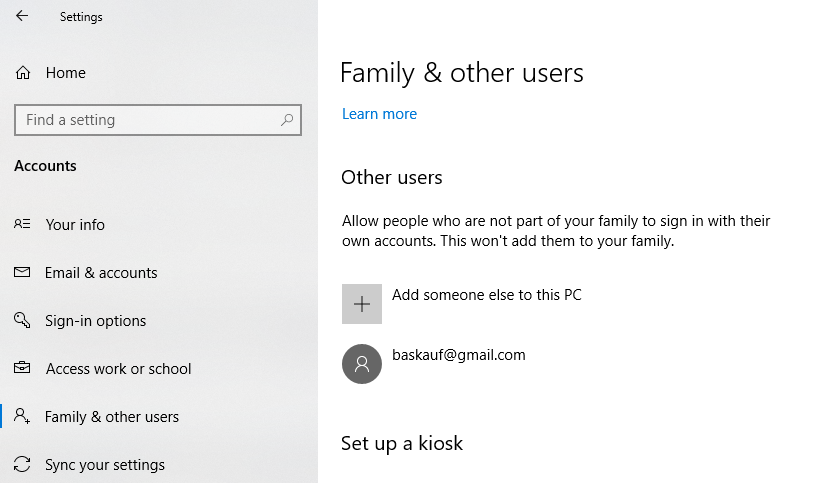
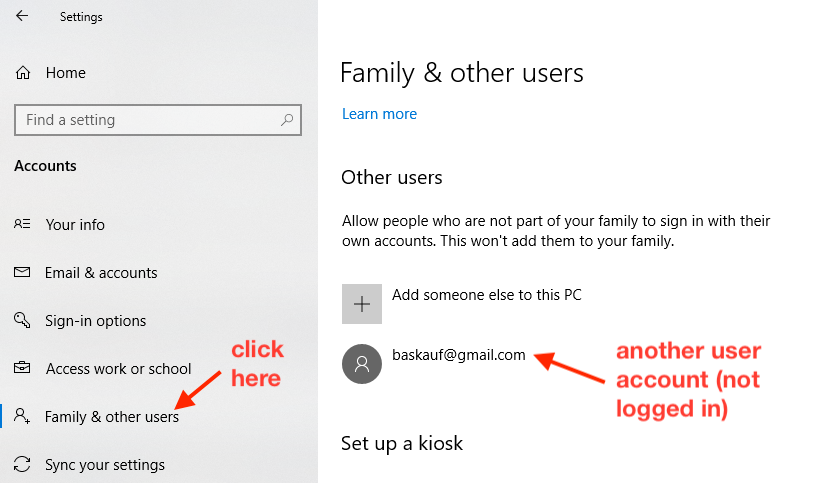
finished first pass at Windows file tutorial

Changed region(s): [[0.6198, 0.7143, 0.9297, 0.8696], [0.1859, 0.7764, 0.3409, 0.8385], [0.2789, 0.6832, 0.3409, 0.7453]]

diff --git a/computer/files-windows.md b/computer/files-windows.md
@@ -16,9 +16,11 @@ As long as everything works as it should, this simplified interface is great and
 
 In this workshop, we assume that you are NOT an idiot and that you should be able to see and understand what's actually going on with your computer without messing it up.  If the situation is not too complicated, you should be empowered to take action yourself.  If the problem is very technical, you should know enough to be able to seek out the help that you need. 
 
+**Tech tip: For many of the most common tasks that are done through menu choices, there is a shortcut key sequence that allows you to avoid having to go up to the menu and make a selection.  In many cases, you hold down on the `Ctrl` key and press some other key.  For example, the shortcut for print is usually to hold `Ctrl` then press `p`.  The shortcuts are often shown to the right of the menu item that they are equivalent to.**
+
 # The illusion of the desktop
 
-![](../images-1-pc/pc-desktop.png)
+![Windows desktop](../images-1-pc/pc-desktop.png)
 
 When I look at the screen of my computer, I see what appears to be a flat surface.  There are some images that I've "saved to the desktop" and it appears that those little pictures are actually sitting on the surface of my desktop.  However, this is an illusion that my computer creates.
 
@@ -34,27 +36,32 @@ In reality, the two image files are somewhere on the *hard drive* of my computer
 
 Long ago, personal computers could have only one user.  Now personal computers are set up to allow different users to log on and access their own files using personalized settings.  You may do some sort of login when you boot your computer, or your computer may be set up to log you in automatically.  
 
-![](../images-1-pc/pc-settings.png)
+<img src="../images-1-pc/pc-settings.png" style="border:1px solid black">
 
-To see what users are enabled on your computer, drop down the apple menu at the upper left of your screen and select System Preferences.  If necessary, click on the button at the top that contains rows of dots so that you can see the preferences options.  Double click on Users & Groups.
+To see what users are enabled on your computer, click on the Start icon (looks like a little window) at the lower left of your screen and click on the little gear. Click on Accounts.
 
-![](../images-1-pc/my-account.png)
+![Logged on user account](../images-1-pc/my-account.png)
 
-There are several important things that you can see from this window.  You can see who is currently logged on, and whether the current user is an *administrator user* or not.  If you are using your own computer, you generally should be logged on as an administrator user, otherwise you may be prevented from taking important actions like installing new software.  If you are using a work computer, you may not be an administator user.  In that case, there may be some changes that you won't be allowed to make on your computer.
+You will see a summary of the user that is logged in.  One important thing that you can see from this window is whether the current user is an *administrator user* or not.  If you are using your own computer, you generally should be logged on as an administrator user, otherwise you may be prevented from taking important actions like installing new software.  If you are using a work computer, you may not be an administator user.  In that case, there may be some changes that you won't be allowed to make on your computer.
 
-![](../images-1-pc/other-account.png)
+![List of other user accounts](../images-1-pc/other-account.png)
 
-You can also see that there are several other users listed that are not currently logged in.
+Click on the item labeled `Family & other users`, then scroll down the screen to `Other users`.  You can see there if there are other users listed that are not currently logged in.
 
 <img src="../images-1-pc/pc-other-desktop-tree.png" style="border:1px solid black">
 
-Here is another view of the directory tree.  In the previous view, the home folder of the logged in user (baskausj) was selected.  I could tell that it was for the logged in user because the user folder icon was a little house.  In this view, the home folder of a non-logged in user (Guest) was selected.  Notice that the Guest user also has a folder called "Desktop".  Most of the Guest user folders have little red "do not" symbols on them.  Since I'm not logged in as the Guest user, I'm not allowed to access them.
+Here is another view of the directory tree.  In the previous view, the `Desktop` folder was in the home folder of the logged in user (steve-bootcamp).  In this view, the `Desktop` folder was in the home folder of a non-logged in user (defaultuser1).  Both users have folders called "Desktop", but those folders are not the same.  As you can see, the defaultuser1 desktop folder is actually empty (vs. the steve-bootcamp user's desktop, which had the two image files).
 
 Every user on the computer has its own Documents, Downloads, Music, etc. folders.  It can be confusing if you unknowingly log out from your normal user account and log on to a different one.  The graphical desktop and the contents of all of these familiar folders will be different because they aren't actually the same folders as your user folders (even though they have the same names).  
 
 If you use your computer sometime and the desktop looks different, or folders and files appear to be missing, do not panic.  First, check whether you have accidentally logged in as a different user (then panic as necessary).
 
 # Programs and files
+
+**Tech tip: The usual way to work with files in Windows is with the *File Explorer*.  To launch File Explorer, click on the little file folder in the lower left of the screen.  It's usually the first icon after the search box.**
+
+![Opening File Explorer](../images-1-pc/file-explorer.png)
+
 
 ## What is a file?
 
@@ -65,6 +72,17 @@ A file has several fundamental properties.  One is its size.  File sizes are mea
 Another property of a file is its last-modified date.  This is the last time that the file was changed.  The last-modified date can be really useful if you are searching for a file but don't remember its name, or for sorting files by how recently you worked on them.
 
 File names and types are also important and will be discussed in detail below.
+
+## File Properties
+
+There are two ways in Windows that you can get information about a particular file.  
+
+1. Right click on the file, then select `Properties` from the menu that opens.
+2. Click on the file, then select `Properties` from the Home ribbon at the top of the File Explorer window.
+
+<img src="../images-1-pc/file-properties.png" style="border:1px solid black">
+
+The various tabs of the File Explorer window show all kinds of information about the file, including its kind, size, and modification date.  
 
 ## File names
 
@@ -108,30 +126,23 @@ Here are some examples.
 
 In the olden days, a computer could only run one program at a time.  However, now computers routinely run many programs at once.  Many of those programs start running when the computer is booted up and you don't even know it.  The operating system itself is a big program that runs all the time when the computer is turned on.  
 
-![Mac dock](../images-1-pc/task-bar.png)
+![Windows task bar](../images-1-pc/task-bar.png)
 
-Applications that have been started up by the user are usually shown in the *dock* at the bottom of the Mac desktop.  Icons of applications that are "pinned" to the dock are there all the time, regardless of whether they are running or not.  Applications that are running, but not pinned, will show up in the dock with dots under them while they are running.  They may disappear when you quit them.
+Applications that have been started up by the user are usually shown in the *task bar* at the bottom of the Windows desktop.  Icons of applications that are "pinned" to the task bar are there all the time, regardless of whether they are running or not.  Applications that are running have blue bars under them.  Applications that aren't pinned will show up in the task bar while they are running, but they will disappear when you exit them.
 
-You should be aware that on a Mac just closing the final window of an application does not quit the application.  It is still running, and you'll see the dot under its icon in the dock.  
+In Windows, to exit an application, all you need to do to exit an application is to click on the X in the last open window associated with that application.  Alternatively, you can right-click on its icon in the task bar, then select `Close window`.   
 
+![Windows system tray](../images-1-pc/system-tray.png)
 
+Some of the applications that started up automatically when the computer booted have icons in the *system tray* at the lower right of the Mac desktop. In this example, Dropbox and OneDrive (applications that started when the computer booted) are showing up there.  There are several other applications that were launched when the system booted that show up when you click on the up arrow on the left side of the system tray.  In most cases, clicking on these icons will bring up some kind of menu that tells you the status of the application, gives notifications, or allows you to change settings.  For example, clicking on the Dropbox icon will tell you whether file synching is up to date.
 
-To actually quit the application, click on its icon in the dock, then go to the menu item named after the application.  Drop down the menu and select quit.  
+The most complete way to know about every program that is running on in Windows is to launch the Task Manager.  To start up the Task Manager, hold down on the `Ctrl` and `Alt` keys at the same time, then press the `Delete` key.  This key combination (sometimes called the Windows "three finger salute") is the method of last resort for getting your computer's attention when it's locked up.  From the menu that pops up, select `Task Manager`.  
 
-**Tech tip: For many of the most common tasks that are done through menu choices, there is a shortcut key sequence that allows you to avoid having to go up to the menu and make a selection.  In many cases, you hold down on the `command` key and press some other key.  For example, the shortcut for quit is hold `command` then press `q`.  Some other shortcuts are nearly impossible to remember and require pressing three keys at once.  The shortcuts are often shown to the right of the menu item that they are equivalent to.**
+![Windows task manager](../images-1-pc/task-manager.png)
 
-You can also quit an application by right-clicking on its icon in the dock, then selecting `Quit`.
+Under normal circumstances, you are not likely to need to look at the Task Manager, but sometimes there are stubborn problems caused when a program won't finish quitting properly, or gets out of control and won't quit.  In the Task Manager, you can click on the name of the running App, then click on the `End task` button at the lower right of the window.  
 
-
-Some of the applications that started up automatically when the computer booted have icons in the *menu bar* at the upper right of the Mac desktop. In this example, Dropbox, Box, Pulse Secure VPN, Docker, and other applications that started when the computer booted are showing up there.  In most cases, clicking on these icons will bring up some kind of menu that tells you the status of the application, gives notifications, or allows you to change settings.  For example, clicking on the Dropbox icon will tell you whether file synching is up to date.
-
-![Mac activity monitor](../images-1-pc/task-manager.png)
-
-The most complete way to know about every program that is running on a Mac is to launch the Activity Monitor.  To start up Activity Monitor, click on the spotlight search icon (magnifying glass) in the upper right of your computer, then start typing "activity".  When `Activity Monitor.app` appears as a list item, double-click on it.  
-
-You are not likely to need to look at the Activity Monitor, but sometimes there are stubborn problems caused when a program won't finish quitting properly, or gets out of control and won't quit.  In the activity monitor, you can click on the name of the running "process", then click on the X button at the upper left of the window.  
-
-**Note:** it is not advisable to use this as a routine way to quit programs, or to quit processes whose purpose you don't understand.  However, the Activity Monitor is a way to discover if an application is a "hog" that is using up a lot of your system resources and slowing down other applications.  This may be relevant if you use a lot of applications, then close their windows without actually quitting them as described above.
+**Note:** it is not advisable to use this as a routine way to quit programs, or to quit background processes whose purpose you don't understand.  However, the Task Manager is a way to discover if an application is a "hog" that is using up a lot of your system resources and slowing down other applications.  In other cases, you inadvertently run multiple copies of the same application, and one or more copies of the applications that are "stuck" may be preventing the applications that you see on your screen from running properly.  With Task Manager, you can shut down the multiple instances of the application, then restart it in the normal way.
 
 # File associations and extensions
 
@@ -143,44 +154,29 @@ A *file extension* is a series of characters that follow the main part of a file
 
 ## How does my computer know what a file is "for"?
 
-In the past, Macs had a special way that they kept track of the type of a file.  The file type was stored as metadata within the file itself.  In that system, any Mac could know the type of a file by looking at that metadata, although other brands of computers would probably not know what to do with them.  However, Macs now follow the convention used by most of the rest of the computing world: use a file extension to keep track of the type of a file.
+Windows computers track the type of a file by following the convention used by most of the computing world: use a file extension to know what kind of file it is.
 
-Despite this change, Macs continue to hide the file extensions from their users.  Perhaps this is to reassure old Classic Mac users, or maybe Apple thinks that file extensions will be too confusing to new users.  However, in the spirit of "you are not an idiot and don't need to be treated like one", we are going to learn how to turn off the hiding of file extensions.
-
-## Get Info
-
-There are three ways in Finder that you can get information about a particular file, including its kind.  
-
-
-1. Right click on the file, then select `Get Info` from the menu that opens.
-2. Click on the file, then select `Get Info` from the Finder File menu at the upper left of the screen.
-3. Click on the file, hold down on the `command` key, then press the `i` key.  
-
-<img src="../images-1-pc/file-properties.png" style="border:1px solid black">
-
-The Get Info window shows all kinds of information about the file, including its kind, size, and often a preview of how the file would be rendered.  
+Despite this, by default Windows computers hide the file extensions from their users.  Perhaps Microsoft thinks that file extensions will be too confusing to new users.  In the spirit of "you are not an idiot and don't need to be treated like one", we are going to learn how to turn off the hiding of file extensions.
 
 ## Unhiding file extensions
 
 <img src="../images-1-pc/open-folder-options.png" style="border:1px solid black">
 
-The Get Info window has a checkbox to control whether the file extension is displayed for that particular file.  Unchecking that box makes the extension show up in the file name in Finder:
+The easiest way to get to the File Explorer Options is to start typing "folder" in the search box at the lower left of the screen.  (Why "folder" and not "file explorer"? Dunno.)  When File Explorer Options appears, click on it.  When the window opens up, click on the View tab. 
 
-Here's what the icon looks like when the extension is being hidden:
+In the Advanced settings section of the tab, there are a number of checkboxes for controlling how files and folders are displayed. 
+
+Notice how icon labels look when the extension is being hidden:
 
 <img src="../images-1-pc/hide-extensions.png" style="border:1px solid black">
 
-Here's what the icon looks like when the extension is displayed:
+Click to uncheck the `Hide extensions for known file types` checkbox, then click `Apply`. Notice that the labels under icons now show the file extension: 
 
 <img src="../images-1-pc/show-file-extensions.png" style="border:1px solid black">
 
-Obviously, this is not a solution if you want to display file extensions for every file on your computer.  To accomplish that, you need to change a setting in your Preferences.  
+It is really pretty difficult to do anything very complex on your computer without being able to see file extensions, so you should leave them as visible.  
 
-Click on an open Finder window, or on the Finder icon in the Dock to make Finder the active application.  Then drop down the Finder menu in the upper left and select `Preferences ...`.  
-
-
-
-Check the box next to `Show all filename extensions`, then close the window.  Now when you view files in finder, it should be clear what type of file they are based on their file extensions.
+**Tech tip: It is also an insult to your intelligence that your computer hides files from you.  So while you have this dialog open, you should click the `Show hidden files, folders, and drives` radio button, then hit Apply.  Hidden folders often contain files that you shouldn't mess with, but there is definitely no harm in you being able to see them.  They show up as gray in File Explorer.**
 
 Here are some common file extensions and the type of file they represent
 
@@ -212,13 +208,27 @@ However, sometimes a newly-installed application may "hijack" a file association
 
 ## Changing file associations
 
-In Macs, it isn't particularly easy to find the file type association list.  However, it is relatively easy to find out what application is associated with one particular file type.  In Finder, locate a file of the type whose association you'd like to change.  In the Get Info window, there is a section labeled `Open with:`.  In that section, there is a dropdown list that shows both the default application that will generally be used to open that kind of file, and all of the applications that your computer thinks might be reasonable alternatives. If you change the selection in this dropdown, it will change the application that will be used to open **that particular file**.  However, if you then click the `Change All...` button below the list, that will change the default application used to open **all** files of that type (i.e. having that file extension).
+In Windows, it's relatively easy to look at the file type association list.  To get to the list, click the Start button in the lower left, then click on the settings gear.  
+
+<img src="../images-1-pc/settings-apps.png" style="border:1px solid black">
+
+Click on the `Apps` item.
 
 <img src="../images-1-pc/default-apps.png" style="border:1px solid black">
 
+Click on the `Default apps` option.
+
 <img src="../images-1-pc/default-choices.png" style="border:1px solid black">
 
+Scroll down the screen until you see a list of ways to choose default apps.  
+
+<img src="../images-1-pc/pick-default-method.png" style="border:1px solid black">
+
+Click on the `Choose default apps by file type` option.  It may take a few moments for the window to be populated with all of the file types.
+
 <img src="../images-1-pc/default-app-by-extension.png" style="border:1px solid black">
+
+Eventually, you will see a list of file extensions, with a description of the file type below them.  At the right of the screen, you can select what application should be associated with that file type.  If there is already an application, you can click on the option to change it.  If it says "Choose a default", you may have trouble finding an application that will work for that kind of file.
 
 Once you have changed the file type association, you have changed what happens when you double-click on a file of that kind.  For example, if you associate `.png` images with Preview, the file will be opened with the typical viewing options, such as setting up a slideshow.  However, if you associate `.png` images with Adobe Photoshop, double-clicking on `.png` images will launch Photoshop (if it isn't already running), then open the file in the Photoshop application.
 

diff --git a/computer/files-mac.md b/computer/files-mac.md
@@ -54,6 +54,11 @@ If you use your computer sometime and the desktop looks different, or folders an
 
 # Programs and files
 
+**Tech tip: The usual way to work with files in Windows is with *Finder*.  Finder is always running on a Mac -- there is no way to "turn it off".  To view files, click on the Finder icon at the lower left of your screen.**
+
+![Finder](../images-1-mac/finder.png)
+
+
 ## What is a file?
 
 The fundamental unit of organization of information on a computer is a *file*.  A file is a set of *bytes* that are grouped together for some purpose and given a common name.  We will not worry about the details of what a byte is -- we can just imagine that it is some unit of information.  By itself, a byte doesn't have any meaning.  It is given meaning when we know the type of the file that it's included in.  For example, in a text file, a byte might represent a character like a number or letter.  In an MP3 file, a byte is a digital representation of some part of a sound.  In a JPEG image, a byte represents some component of the colored dots that are used to make an image. 
@@ -63,6 +68,19 @@ A file has several fundamental properties.  One is its size.  File sizes are mea
 Another property of a file is its last-modified date.  This is the last time that the file was changed.  The last-modified date can be really useful if you are searching for a file but don't remember its name, or for sorting files by how recently you worked on them.
 
 File names and types are also important and will be discussed in detail below.
+
+## Get Info
+
+There are three ways in Finder that you can get information about a particular file.  
+
+
+1. Right click on the file, then select `Get Info` from the menu that opens.
+2. Click on the file, then select `Get Info` from the Finder File menu at the upper left of the screen.
+3. Click on the file, hold down on the `command` key, then press the `i` key.  
+
+<img src="../images-1-mac/get-info-unlabeled.png" style="border:1px solid black">
+
+The Get Info window shows all kinds of information about the file, including its kind, size, and often a preview of how the file would be rendered.  
 
 ## File names
 
@@ -146,18 +164,8 @@ In the past, Macs had a special way that they kept track of the type of a file. 
 
 Despite this change, Macs continue to hide the file extensions from their users.  Perhaps this is to reassure old Classic Mac users, or maybe Apple thinks that file extensions will be too confusing to new users.  However, in the spirit of "you are not an idiot and don't need to be treated like one", we are going to learn how to turn off the hiding of file extensions.
 
-## Get Info
-
-There are three ways in Finder that you can get information about a particular file, including its kind.  
-
-
-1. Right click on the file, then select `Get Info` from the menu that opens.
-2. Click on the file, then select `Get Info` from the Finder File menu at the upper left of the screen.
-3. Click on the file, hold down on the `command` key, then press the `i` key.  
-
 <img src="../images-1-mac/get-info.png" style="border:1px solid black">
 
-The Get Info window shows all kinds of information about the file, including its kind, size, and often a preview of how the file would be rendered.  
 
 ## Unhiding file extensions
 
@@ -212,6 +220,12 @@ However, sometimes a newly-installed application may "hijack" a file association
 In Macs, it isn't particularly easy to find the file type association list.  However, it is relatively easy to find out what application is associated with one particular file type.  In Finder, locate a file of the type whose association you'd like to change.  In the Get Info window, there is a section labeled `Open with:`.  In that section, there is a dropdown list that shows both the default application that will generally be used to open that kind of file, and all of the applications that your computer thinks might be reasonable alternatives. If you change the selection in this dropdown, it will change the application that will be used to open **that particular file**.  However, if you then click the `Change All...` button below the list, that will change the default application used to open **all** files of that type (i.e. having that file extension). 
 
 Once you have changed the file type association, you have changed what happens when you double-click on a file of that kind.  For example, if you associate `.png` images with Preview, the file will be opened with the typical viewing options, such as setting up a slideshow.  However, if you associate `.png` images with Adobe Photoshop, double-clicking on `.png` images will launch Photoshop (if it isn't already running), then open the file in the Photoshop application.
+
+## A final note on opening files
+
+You should keep in mind that setting a file association only changes the application that opens a file type when you double click on the file icon.  You can always open an application first, then go to the file menu and select the `open` option.  The application will open the file if it's able, regardless of whether the type of that file is associated with it.  
+
+This method is good if you usually open CSV files with a spreadsheet program, but want to actually look at the raw characters in the file by opening it in a text editor.
 
 [go on to Lesson 2: Directories](../directories-mac/)
 
